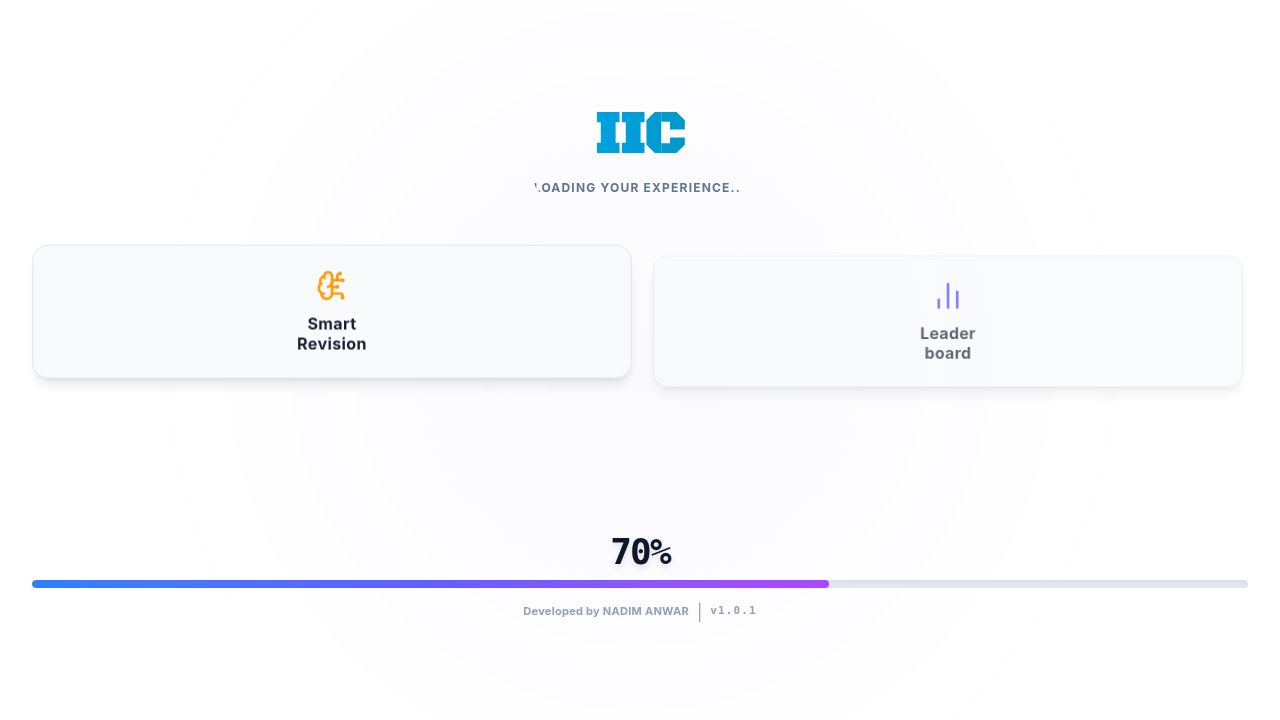
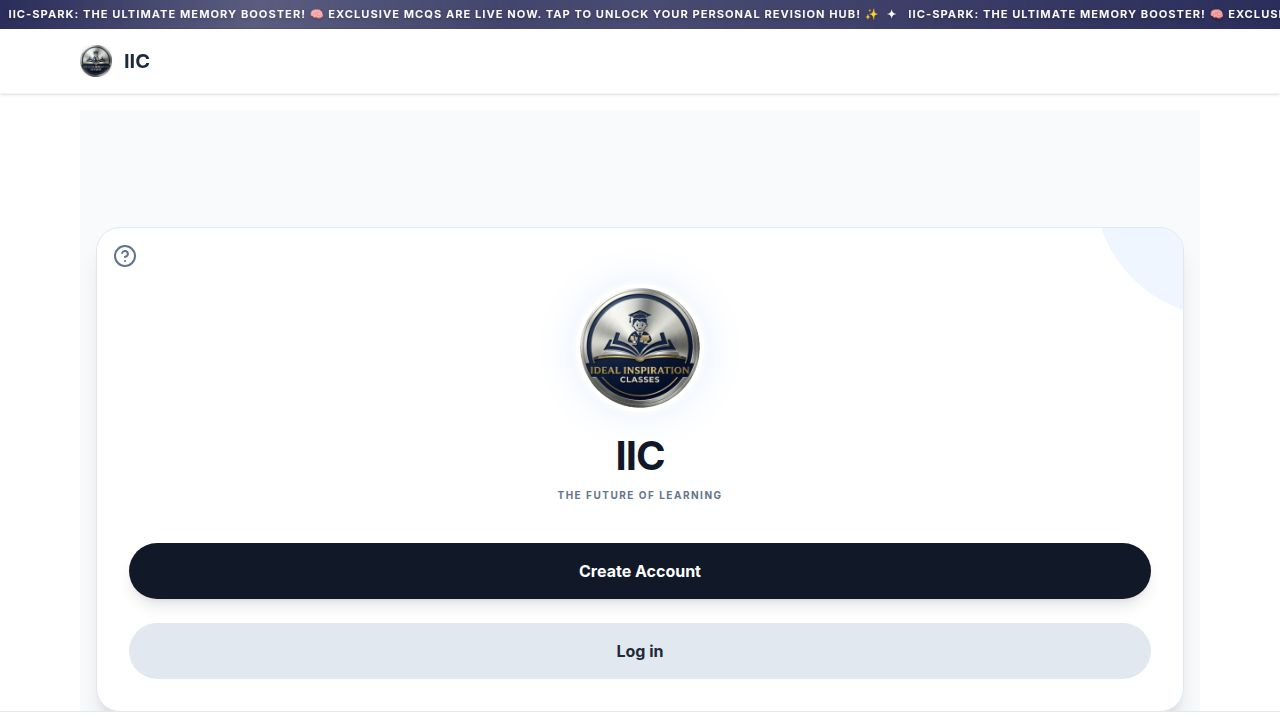
Fix white screen error by disabling development service worker
Disable the PWA service worker in development mode via vite.config.ts to resolve the white screen issue caused by the service worker intercepting requests.

Replit-Commit-Author: Agent
Replit-Commit-Session-Id: 505ffce6-7738-4355-bba3-c578563e3b64
Replit-Commit-Checkpoint-Type: full_checkpoint
Replit-Commit-Event-Id: 5e23e51f-832e-44eb-be47-a834867ad9e1
Replit-Commit-Screenshot-Url: https://storage.googleapis.com/screenshot-production-us-central1/3a7935d4-c686-4f0d-ada1-fce77824ef96/505ffce6-7738-4355-bba3-c578563e3b64/moE75SK
Replit-Helium-Checkpoint-Created: true

diff --git a/artifacts/iic-app/vite.config.ts b/artifacts/iic-app/vite.config.ts
@@ -115,8 +115,7 @@ export default defineConfig({
         ],
       },
       devOptions: {
-        enabled: true,
-        type: "module",
+        enabled: false,
       },
     }),
     ...(process.env.NODE_ENV !== "production" &&

diff --git a/artifacts/iic-app/dev-dist/sw.js b/artifacts/iic-app/dev-dist/sw.js
@@ -81,7 +81,7 @@ define(['./workbox-b1bafff1'], (function (workbox) { 'use strict';
     "revision": "3ca0b8505b4bec776b69afdba2768812"
   }, {
     "url": "index.html",
-    "revision": "0.u5uu7a8nbcc"
+    "revision": "0.mct5ej2o6p4"
   }], {});
   workbox.cleanupOutdatedCaches();
   workbox.registerRoute(new workbox.NavigationRoute(workbox.createHandlerBoundToURL("index.html"), {